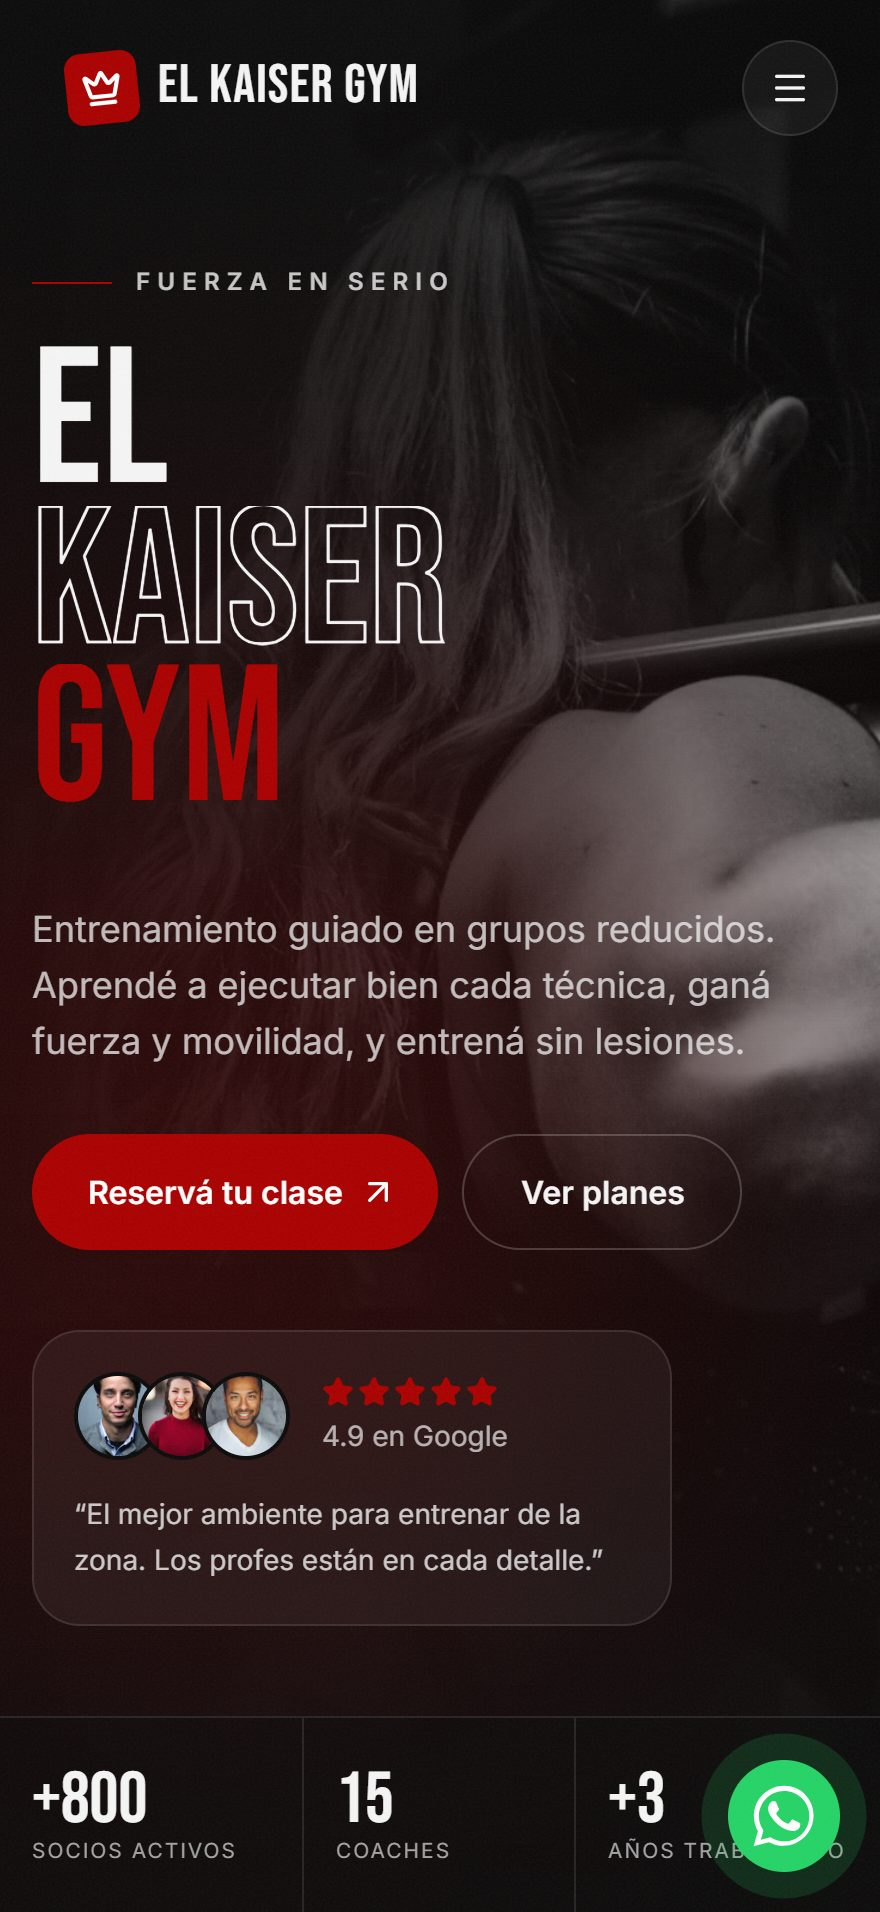
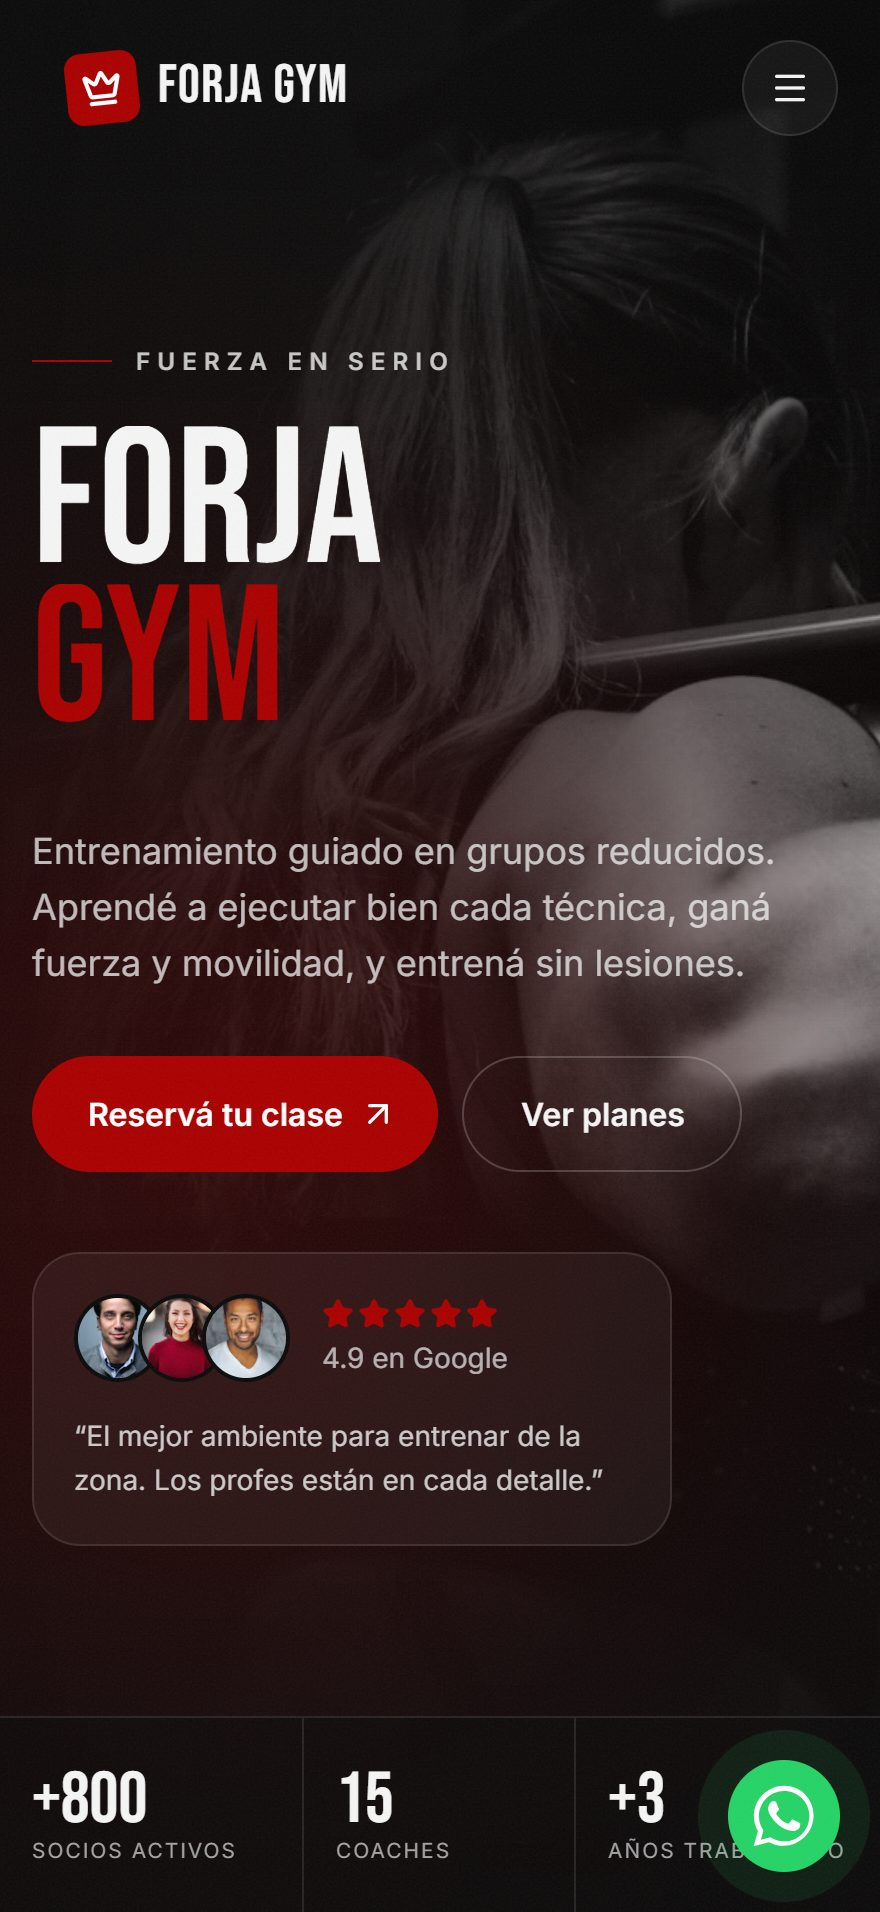
Pequeños fixes y cambios

diff --git a/src/data/projects.js b/src/data/projects.js
@@ -7,10 +7,12 @@
 //   Si faltan, se muestra un sitio de ejemplo con los colores de `theme`.
 // - `images.hero`: captura de la primera pantalla en celular, para el celular que
 //   rota los proyectos al principio de la página (si falta, se usa `images.mobile`).
+// - `statusBar`: color de la parte de arriba del sitio. Pinta la franja de la barra de
+//   estado del celular, que deja el contenido debajo del notch.
 export const projects = [
   {
     id: 'gym',
-    title: 'El Kaiser Gym',
+    title: 'Forja Gym',
     category: 'Gimnasio',
     year: '2026',
     description:
@@ -23,6 +25,7 @@ export const projects = [
       mobile: '/projects/gym-mobile.png',
       hero: '/projects/gym-hero.jpg',
     },
+    statusBar: '#121212',
     theme: {
       bg: '#505050',
       fg: '#2e2522',
@@ -47,6 +50,7 @@ export const projects = [
       mobile: '/projects/pilates-mobile.png',
       hero: '/projects/pilates-hero.jpg',
     },
+    statusBar: '#ece5f9',
     theme: {
       bg: '#1f1e1b',
       fg: '#efe9df',
@@ -71,6 +75,7 @@ export const projects = [
       mobile: '/projects/estetica-mobile.png',
       hero: '/projects/estetica-hero.jpg',
     },
+    statusBar: '#f7f2ec',
     theme: {
       bg: '#eef5f3',
       fg: '#0f3b37',

diff --git a/src/components/Devices.jsx b/src/components/Devices.jsx
@@ -1,9 +1,10 @@
 import './Devices.css'
 
 // `scroll`: 'auto' recorre la pantalla sola, 'none' la deja quieta.
-export function Phone({ scroll = 'auto', children }) {
+// `statusBar`: color de la franja de arriba, donde está el notch.
+export function Phone({ scroll = 'auto', statusBar, children }) {
   return (
-    <div className="phone">
+    <div className="phone" style={{ '--status-bar': statusBar }}>
       <div className="phone__screen">
         <div className="phone__island" />
         <div className={`screen-scroller screen-scroller--${scroll}`}>{children}</div>

diff --git a/src/components/Devices.css b/src/components/Devices.css
@@ -18,8 +18,16 @@
   height: 100%;
   overflow: hidden;
   border-radius: calc(var(--phone-w) * 0.135);
-  background: var(--surface);
+  background: var(--status-bar, var(--surface));
   container: phone / size;
+  transition: background-color 0.8s;
+  --status-bar-h: 13cqw;
+}
+
+/* Franja de la barra de estado: el contenido arranca debajo del notch, como en
+   un celular real. Al recorrerse, pasa por detrás. */
+.phone .screen-scroller {
+  padding-top: var(--status-bar-h);
 }
 
 /* Reflejo del vidrio */

diff --git a/src/components/Hero.jsx b/src/components/Hero.jsx
@@ -108,7 +108,7 @@ export default function Hero() {
         <div className="hero__device">
           <div className="hero__tilt">
             <div className="hero__float">
-              <Phone scroll="none">
+              <Phone scroll="none" statusBar={slides[slideIndex]?.project.statusBar}>
                 <div className="hero__slides">
                   {slides.map(({ project, image }, i) => (
                     <img

diff --git a/src/components/Projects.jsx b/src/components/Projects.jsx
@@ -56,7 +56,7 @@ export default function Projects() {
                   </Browser>
                 </div>
                 <div className="showcase__phone">
-                  <Phone>
+                  <Phone statusBar={project.statusBar}>
                     <ProjectScreen project={project} variant="mobile" />
                   </Phone>
                 </div>

diff --git a/src/components/Footer.jsx b/src/components/Footer.jsx
@@ -4,7 +4,7 @@ export default function Footer() {
   return (
     <footer className="footer">
       <div className="container footer__inner">
-        <p>© {year} Seib</p>
+        <p>© {year} Blumse</p>
         <a href="#inicio">Volver arriba ↑</a>
       </div>
     </footer>

diff --git a/src/components/Hero.css b/src/components/Hero.css
@@ -210,7 +210,7 @@
 /* Proyectos que rotan dentro del celular */
 .hero__slides {
   position: relative;
-  height: 100cqh;
+  height: calc(100cqh - var(--status-bar-h));
 }
 
 .hero__slide {
